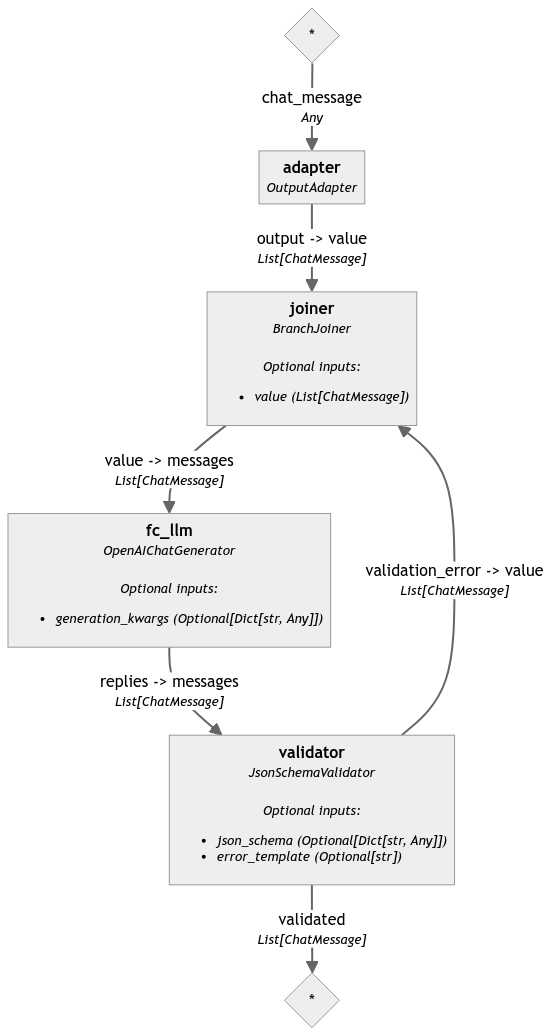
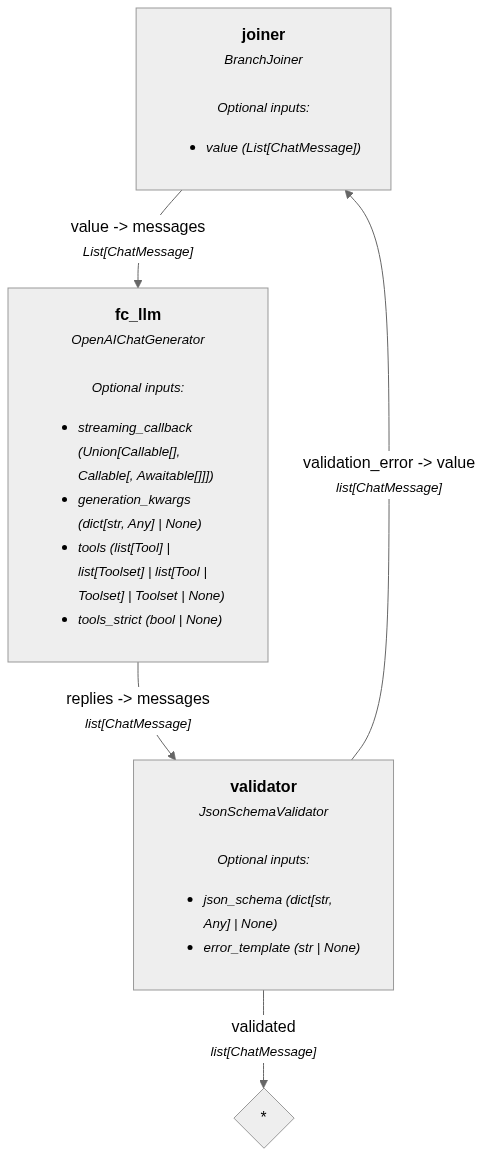
docs: remove unnecessary OutputAdapter usage in docs (#10644)

diff --git a/haystack/components/joiners/branch.py b/haystack/components/joiners/branch.py
@@ -33,7 +33,6 @@ class BranchJoiner:
     import json
 
     from haystack import Pipeline
-    from haystack.components.converters import OutputAdapter
     from haystack.components.generators.chat import OpenAIChatGenerator
     from haystack.components.joiners import BranchJoiner
     from haystack.components.validators import JsonSchemaValidator
@@ -54,13 +53,11 @@ class BranchJoiner:
     pipe = Pipeline()
 
     # Add components to the pipeline
-    pipe.add_component('joiner', BranchJoiner(list[ChatMessage]))
-    pipe.add_component('generator', OpenAIChatGenerator())
-    pipe.add_component('validator', JsonSchemaValidator(json_schema=person_schema))
-    pipe.add_component('adapter', OutputAdapter("{{chat_message}}", list[ChatMessage], unsafe=True))
+    pipe.add_component("joiner", BranchJoiner(list[ChatMessage]))
+    pipe.add_component("generator", OpenAIChatGenerator(model="gpt-4.1-mini"))
+    pipe.add_component("validator", JsonSchemaValidator(json_schema=person_schema))
 
     # And connect them
-    pipe.connect("adapter", "joiner")
     pipe.connect("joiner", "generator")
     pipe.connect("generator.replies", "validator.messages")
     pipe.connect("validator.validation_error", "joiner")
@@ -68,7 +65,7 @@ class BranchJoiner:
     result = pipe.run(
         data={
         "generator": {"generation_kwargs": {"response_format": {"type": "json_object"}}},
-        "adapter": {"chat_message": [ChatMessage.from_user("Create json from Peter Parker")]}}
+        "joiner": {"value": [ChatMessage.from_user("Create json from Peter Parker")]}}
     )
 
     print(json.loads(result["validator"]["validated"][0].text))
